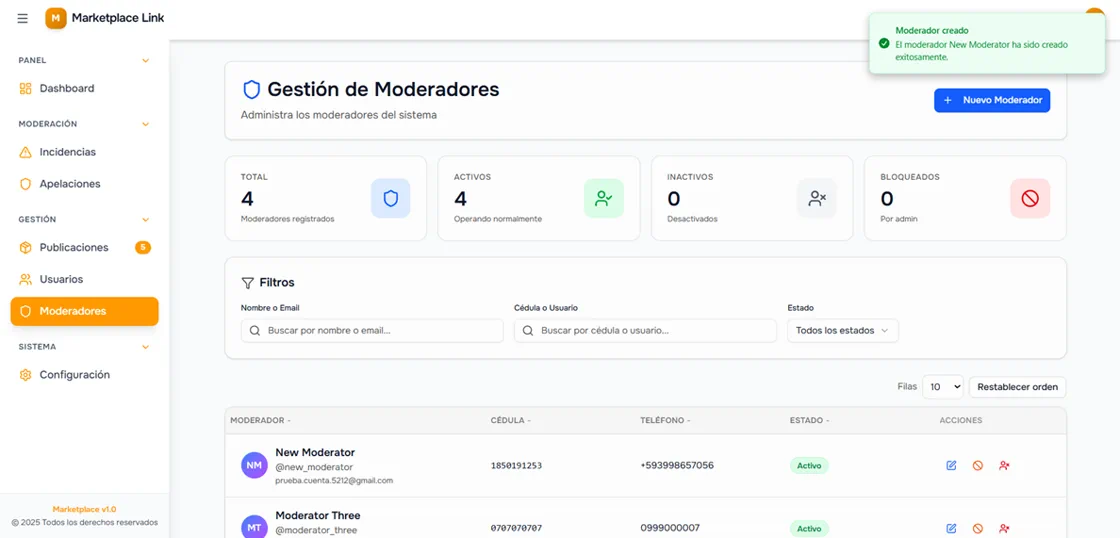
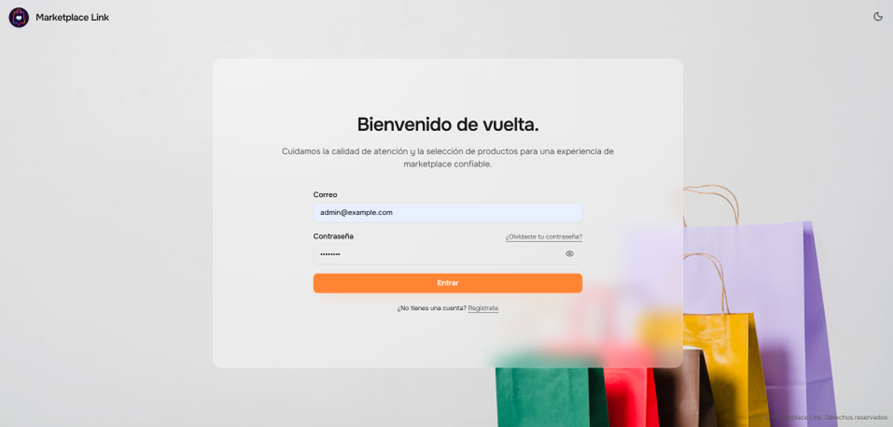
feat: update project assets and improve contact section
- Replace moderation project preview image with a new version.
- Add AWS and Amazon S3 SVG icons to the tech assets.
- Introduce Cloudflare SVG icon to the tech assets.
- Remove font-family style from ContactSection component.
- Update HeroSection component to use bold font weight for the title.
- Enhance SkillsSection to include AWS in the DevOps & Cloud category.
- Modify ProjectCard component to link project titles to live demos.
- Update projects data to include Cloudflare and Amazon S3 in tech stack.
- Refactor CSS to use new font variables and remove unused font-face declarations.

diff --git a/src/features/projects/data/projects.ts b/src/features/projects/data/projects.ts
@@ -1,5 +1,7 @@
 import AKS from "@/assets/img/tech/AKS.png"
+import AmazonS3 from "@/assets/img/tech/Amazon S3.svg"
 import Azure from "@/assets/img/tech/azure.png"
+import Cloudflare from "@/assets/img/tech/Cloudflare.svg"
 import Jenkins from "@/assets/img/tech/Jenkins.png"
 import Nest from "@/assets/img/tech/Nest.js.png"
 import PostgreSQL from "@/assets/img/tech/PostgresSQL.png"
@@ -178,8 +180,8 @@ export const projects: Project[] = [
       "Testing-focused development",
       "Jenkins CI/CD pipeline + deployment on Azure",
     ],
-    stack: ["React", "Spring Boot", "Jenkins", "TypeScript", "Testing", "Azure"],
-    tags: ["frontend", "react", "typescript", "spring", "devops", "jenkins"],
+    stack: ["React", "Spring Boot", "Jenkins", "TypeScript", "Testing", "Azure", "Cloudflare", "Amazon S3"],
+    tags: ["frontend", "react", "typescript", "spring", "devops", "jenkins", "cloudflare", "aws", "s3"],
     category: "fullstack",
     featured: true,
     featuredRank: 4,
@@ -188,6 +190,8 @@ export const projects: Project[] = [
       { name: "TypeScript", iconSrc: TypeScript },
       { name: "Spring Boot", iconSrc: Spring },
       { name: "Jenkins", iconSrc: Jenkins },
+      { name: "Cloudflare", iconSrc: Cloudflare },
+      { name: "Amazon S3", iconSrc: AmazonS3 },
     ],
     images: {
       previewSrc: new URL("../../../assets/img/projects/moderation/preview.webp", import.meta.url).toString(),
@@ -265,8 +269,8 @@ export const projects: Project[] = [
       "Communities and real-time chat",
       "PostgreSQL persistence and SonarQube code analysis",
     ],
-    stack: ["React", "NestJS", "PostgreSQL", "SonarQube"],
-    tags: ["react", "nestjs", "postgresql", "sonarqube", "forum", "chat", "monorepo"],
+    stack: ["React", "NestJS", "PostgreSQL", "SonarQube", "Cloudflare", "Amazon S3"],
+    tags: ["react", "nestjs", "postgresql", "sonarqube", "forum", "chat", "monorepo", "cloudflare", "aws", "s3"],
     category: "fullstack",
     featured: true,
     featuredRank: 6,
@@ -276,6 +280,8 @@ export const projects: Project[] = [
       { name: "NestJS", iconSrc: Nest },
       { name: "PostgreSQL", iconSrc: PostgreSQL },
       { name: "SonarQube", iconSrc: SonarQube },
+      { name: "Cloudflare", iconSrc: Cloudflare },
+      { name: "Amazon S3", iconSrc: AmazonS3 },
     ],
     images: {
       cover: {
@@ -297,10 +303,15 @@ export const projects: Project[] = [
   },
 ]
 
+function projectPriority(project: Project) {
+  if (project.links.some(({ kind }) => kind === "demo")) return 0
+  return project.category === "microservices" ? 1 : 2
+}
+
 export function getPortfolioProjects() {
   return [...projects]
     .sort((a, b) =>
-      Number(b.category === "microservices") - Number(a.category === "microservices") ||
+      projectPriority(a) - projectPriority(b) ||
       (a.featuredRank ?? Number.MAX_SAFE_INTEGER) - (b.featuredRank ?? Number.MAX_SAFE_INTEGER)
     )
 }

diff --git a/src/styles/fonts.css b/src/styles/fonts.css
@@ -1,70 +1,31 @@
-@font-face{
-  font-family: "Onest";
+@font-face {
+  font-family: "Fraunces";
+  src: url("/assets/fonts/Fraunces/Fraunces-VariableFont_SOFT,WONK,opsz,wght.ttf") format("truetype");
   font-style: normal;
-  font-weight: 100;
+  font-weight: 100 900;
   font-display: swap;
-  src: url("/assets/fonts/onest/Onest-Thin.woff2") format("woff2");
 }
-@font-face{
-  font-family: "Onest";
-  font-style: normal;
-  font-weight: 200;
+
+@font-face {
+  font-family: "Fraunces";
+  src: url("/assets/fonts/Fraunces/Fraunces-Italic-VariableFont_SOFT,WONK,opsz,wght.ttf") format("truetype");
+  font-style: italic;
+  font-weight: 100 900;
   font-display: swap;
-  src: url("/assets/fonts/onest/Onest-ExtraLight.woff2") format("woff2");
 }
-@font-face{
-  font-family: "Onest";
+
+@font-face {
+  font-family: "Plus Jakarta Sans";
+  src: url("/assets/fonts/Plus_Jakarta_Sans/PlusJakartaSans-VariableFont_wght.ttf") format("truetype");
   font-style: normal;
-  font-weight: 300;
+  font-weight: 200 800;
   font-display: swap;
-  src: url("/assets/fonts/onest/Onest-Light.woff2") format("woff2");
 }
-@font-face{
-  font-family: "Onest";
-  font-style: normal;
-  font-weight: 400;
+
+@font-face {
+  font-family: "Plus Jakarta Sans";
+  src: url("/assets/fonts/Plus_Jakarta_Sans/PlusJakartaSans-Italic-VariableFont_wght.ttf") format("truetype");
+  font-style: italic;
+  font-weight: 200 800;
   font-display: swap;
-  src: url("/assets/fonts/onest/Onest-Regular.woff2") format("woff2");
-}
-@font-face{
-  font-family: "Onest";
-  font-style: normal;
-  font-weight: 500;
-  font-display: swap;
-  src: url("/assets/fonts/onest/Onest-Medium.woff2") format("woff2");
-}
-@font-face{
-  font-family: "Onest";
-  font-style: normal;
-  font-weight: 600;
-  font-display: swap;
-  src: url("/assets/fonts/onest/Onest-SemiBold.woff2") format("woff2");
-}
-@font-face{
-  font-family: "Onest";
-  font-style: normal;
-  font-weight: 700;
-  font-display: swap;
-  src: url("/assets/fonts/onest/Onest-Bold.woff2") format("woff2");
-}
-@font-face{
-  font-family: "Onest";
-  font-style: normal;
-  font-weight: 800;
-  font-display: swap;
-  src: url("/assets/fonts/onest/Onest-ExtraBold.woff2") format("woff2");
-}
-@font-face{
-  font-family: "Onest";
-  font-style: normal;
-  font-weight: 900;
-  font-display: swap;
-  src: url("/assets/fonts/onest/Onest-Black.woff2") format("woff2");
-}
-@font-face{
-  font-family: "Gloock";
-  font-style: normal;
-  font-weight: 400;
-  font-display: swap;
-  src: url("/assets/fonts/Gloock/Gloock-Regular.woff2") format("woff2");
 }

diff --git a/src/features/projects/components/ProjectCard.tsx b/src/features/projects/components/ProjectCard.tsx
@@ -29,7 +29,18 @@ export function ProjectCard({ project, className, lead }: Readonly<Props>) {
           "text-balance font-display text-[1.45rem] leading-tight text-[#ece9e2] sm:text-[1.65rem]",
           lead && "lg:text-[1.9rem]",
         )}>
-          {project.title}
+          {demo ? (
+            <a
+              href={demo.href}
+              target="_blank"
+              rel="noreferrer"
+              aria-label={`Visit ${project.title} live site`}
+              className="group/live inline-flex max-w-full items-start gap-2.5 rounded-sm text-inherit! hover:text-[rgb(var(--accent-rgb))]! focus-visible:outline-2 focus-visible:outline-offset-4 focus-visible:outline-[rgb(var(--accent-rgb))]"
+            >
+              <span className="min-w-0">{project.title}</span>
+              <ArrowUpRight aria-hidden="true" className="mt-0.5 size-6 shrink-0 text-[rgb(var(--accent-rgb))] motion-safe:transition-transform motion-safe:group-hover/live:translate-x-0.5 motion-safe:group-hover/live:-translate-y-0.5" />
+            </a>
+          ) : project.title}
         </h3>
         <p className="mt-2 max-w-[53ch] text-sm leading-relaxed text-[#afb7bd]">
           {project.subtitle ?? project.description}
@@ -59,22 +70,8 @@ export function ProjectCard({ project, className, lead }: Readonly<Props>) {
               </button>
             </ProjectGalleryDialog>
 
-            {demo || repositories.length > 0 ? (
-              <ul aria-label={demo ? "Project links" : "GitHub repositories"} className="flex flex-wrap items-center gap-x-3">
-                {demo ? (
-                  <li>
-                    <a
-                      href={demo.href}
-                      target="_blank"
-                      rel="noreferrer"
-                      aria-label={`Visit ${project.title} live site`}
-                      className="inline-flex min-h-11 items-center gap-1.5 rounded-sm text-xs font-medium text-[#afb7bd]! hover:text-white! focus-visible:outline-2 focus-visible:outline-offset-2 focus-visible:outline-[rgb(var(--accent-rgb))]"
-                    >
-                      {demo.label}
-                      <ArrowUpRight aria-hidden="true" className="size-3.5" />
-                    </a>
-                  </li>
-                ) : null}
+            {repositories.length > 0 ? (
+              <ul aria-label="GitHub repositories" className="flex flex-wrap items-center gap-x-3">
                 {repositories.map(({ href, label }) => (
                   <li key={href}>
                     <a

diff --git a/src/components/landing/sections/SkillsSection.tsx b/src/components/landing/sections/SkillsSection.tsx
@@ -34,7 +34,7 @@ function groupFor(name: string): GroupKey | null {
 
   if (["react", "angular", "typescript", "tailwind"].some((k) => n.includes(k))) return "Frontend"
   if (["spring", "java", "laravel", "php", "node", "nest"].some((k) => n.includes(k))) return "Backend"
-  if (["docker", "kubernetes", "jenkins", "github actions", "azure"].some((k) => n.includes(k))) return "DevOps & Cloud"
+  if (["docker", "kubernetes", "jenkins", "github actions", "azure", "aws"].some((k) => n.includes(k))) return "DevOps & Cloud"
   if (["mysql", "postgres", "oracle", "microsoft sql"].some((k) => n.includes(k))) return "Databases"
 
   // Everything else you want to showcase that isn't a language/framework goes here.
@@ -79,7 +79,7 @@ function sortWithinGroup(group: GroupKey, items: SkillIcon[]) {
 
   // DevOps: keep Jenkins next to GitHub Actions, Docker next to Kubernetes, etc.
   if (group === "DevOps & Cloud") {
-    const order = ["Azure", "Jenkins", "GitHub Actions", "Docker", "Kubernetes"]
+    const order = ["Azure", "AWS", "Jenkins", "GitHub Actions", "Docker", "Kubernetes"]
     const rank = (name: string) => {
       const idx = order.findIndex((k) => k.toLowerCase() === name.toLowerCase())
       return idx === -1 ? 999 : idx
@@ -272,7 +272,6 @@ export function SkillsSection() {
         <h2
           data-skills-head
           className="text-3xl font-extrabold text-white md:text-4xl"
-          style={{ fontFamily: "Gloock, Onest, system-ui" }}
         >
           <span className="text-[rgb(var(--accent-rgb,52_211_153))]">Skills</span>
         </h2>

diff --git a/src/index.css b/src/index.css
@@ -4,7 +4,8 @@
 @custom-variant dark (&:is(.dark *));
 
 :root {
-  font-family: "Onest", system-ui, -apple-system, "Segoe UI", Roboto, Helvetica, Arial, sans-serif;
+  font-family: var(--font-sans);
+  --font-display: var(--font-serif);
 
   line-height: 1.5;
   font-weight: 400;
@@ -49,8 +50,6 @@
   --sidebar-accent-foreground: oklch(0.205 0 0);
   --sidebar-border: oklch(0.922 0 0);
   --sidebar-ring: oklch(0.708 0 0);
-  --font-sans: "Onest", system-ui, -apple-system, "Segoe UI", Roboto, Helvetica, Arial, sans-serif;
-  --font-display: "Gloock", "Onest", system-ui, serif;
 }
 
 a {
@@ -94,7 +93,7 @@ h6 {
 }
 
 .font-display {
-  font-family: var(--font-display, "Gloock", serif), serif;
+  font-family: var(--font-display);
 }
 
 /* If some components use these utility-ish classes, keep them consistent too */
@@ -138,6 +137,11 @@ body button:not([data-slot]):not(.shadcn-reset):focus-visible {
   body button:not([data-slot]):not(.shadcn-reset) {
     background-color: #f9f9f9;
   }
+}
+
+@theme static {
+  --font-sans: "Plus Jakarta Sans", system-ui, -apple-system, "Segoe UI", Roboto, Helvetica, Arial, sans-serif;
+  --font-serif: "Fraunces", Georgia, serif;
 }
 
 @theme inline {
@@ -221,7 +225,7 @@ body button:not([data-slot]):not(.shadcn-reset):focus-visible {
   }
   body {
     @apply bg-background text-foreground;
-    font-family: "Onest", system-ui, -apple-system, "Segoe UI", Roboto, Helvetica, Arial, sans-serif;
+    font-family: var(--font-sans);
   }
 
   /* Accento global por elección (sin reventar el theme shadcn): cambia solo brillo y tintes */

diff --git a/src/components/landing/sections/HeroSection.tsx b/src/components/landing/sections/HeroSection.tsx
@@ -151,7 +151,7 @@ export function HeroSection() {
               <span>SOFTWARE ENGINEER</span>
             </p>
 
-            <h1 data-hero className="mt-6 text-4xl font-black leading-[1.03] text-white md:text-7xl">
+            <h1 data-hero className="mt-6 text-4xl font-bold leading-[1.03] text-white md:text-7xl">
               {/* Línea 1: fija */}
               <span className="block">David Barragán</span>
 
@@ -169,7 +169,7 @@ export function HeroSection() {
                 </span>
 
                 {/* Desktop+: 2 líneas estables, centradas, sin salto por cambio de longitud */}
-                <span className="relative hidden whitespace-nowrap md:block">
+                <span className="relative hidden whitespace-nowrap md:block md:text-[min(4vw,2.8125rem)]">
                   {/* Ghost: reserva ancho para la variante más larga, pero no se ve */}
                   <span className="invisible select-none">who builds microservices done right.</span>
 

diff --git a/src/components/landing/sections/ContactSection.tsx b/src/components/landing/sections/ContactSection.tsx
@@ -44,7 +44,6 @@ export function ContactSection() {
             <h2
               data-reveal
               className="text-3xl font-extrabold text-white md:text-4xl"
-              style={{ fontFamily: "Gloock, Onest, system-ui" }}
             >
               <span className="text-[rgb(var(--accent-rgb,52_211_153))]">Contact</span>
             </h2>
